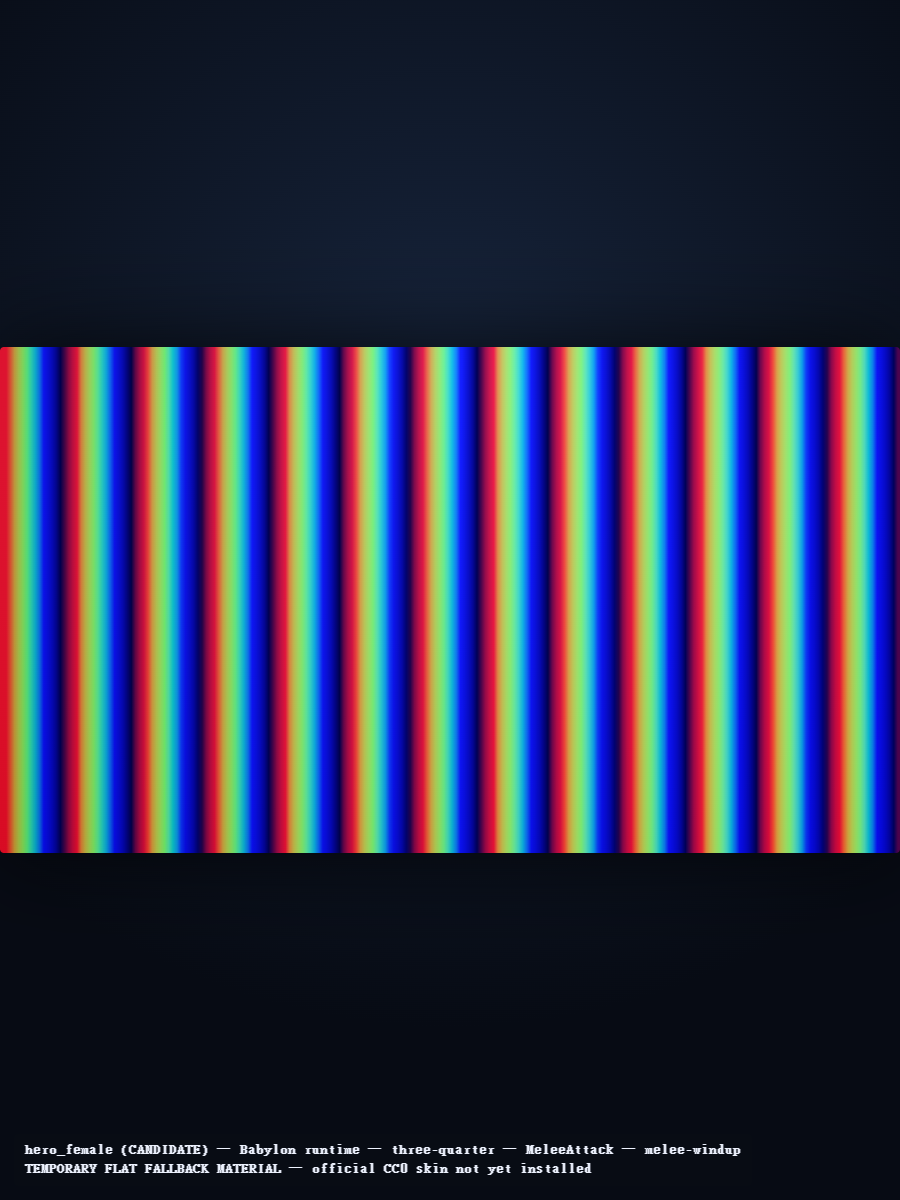
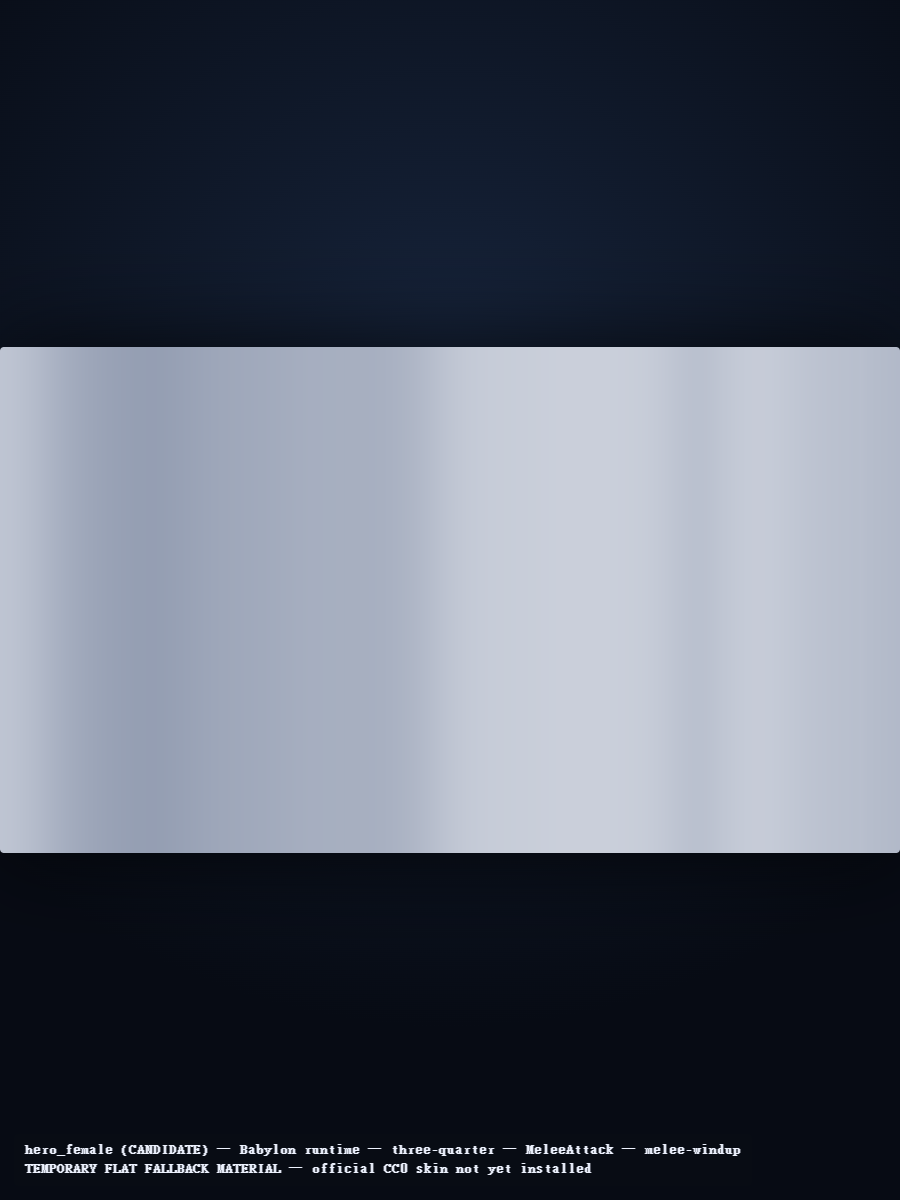
diag(hero): the banded capture is the review harness, and BOTH candidates are good
hero_female's captures render as a field of vertical red/green/blue bands. I
reported that last round as a female-only defect, possibly its bounds. It is
neither.

The harness records the bounds it solved, and the female's are healthy:
height 1.7408, camera radius 2.4293, clearanceFromBounds 1.8568,
insideBounds false. The camera is nowhere near the mesh. So the "camera
solved inside the geometry" explanation I gave was wrong.

Swapping the capture order settles it. Loaded FIRST, the female renders
perfectly -- upright, fully dressed, correct silhouette. Loaded SECOND, the
male shows the identical banding despite being flawless moments earlier.

    order [male, female]  ->  male fine,   female banded
    order [female, male]  ->  female fine, male banded

The breakage follows the LOAD ORDER, not the asset. Both candidates are
sound, and this round's up-axis fix is confirmed on both of them rather than
just on the male.

Attempted fix, did not work, reverted: `setVariant` disposes the previous
container with `removeAllFromScene()`, which detaches without releasing, so
the guess was that the second load rendered against the first's surviving
skeleton resources -- bone matrices sampled as colour would look exactly like
this. Replacing it with `container.dispose()` changed nothing; the second
variant still bands. The hypothesis is dead and the source is back at HEAD
rather than carrying a comment that claims a fix it did not deliver.
[…]

diff --git a/tests/human-candidate-runtime.spec.ts b/tests/human-candidate-runtime.spec.ts
@@ -56,6 +56,10 @@ test("captures Babylon runtime evidence for both human candidates", async ({ pag
   await page.waitForFunction(() => (window as ReviewWindow).__humanCandidateReview?.sceneReady === true, { timeout: 90_000 });
 
   const captured: Array<Record<string, unknown>> = [];
+  // Order matters here, and it is a regression guard, not a preference: the
+  // second variant loaded used to render as bone matrices sampled as colour,
+  // because the first was detached rather than disposed. Whichever runs second
+  // is the one that proves the swap releases its resources.
   for (const variant of ["male", "female"]) {
     await page.evaluate((v) => (window as ReviewWindow).frostboundHumanCandidate!.setVariant(v), variant);
     await page.waitForFunction(
